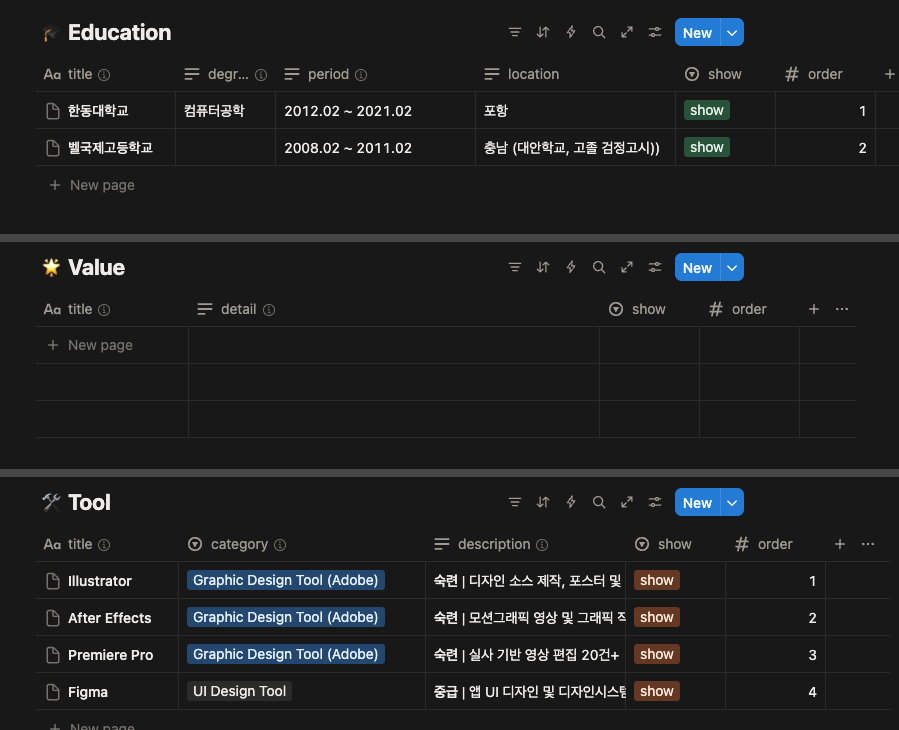
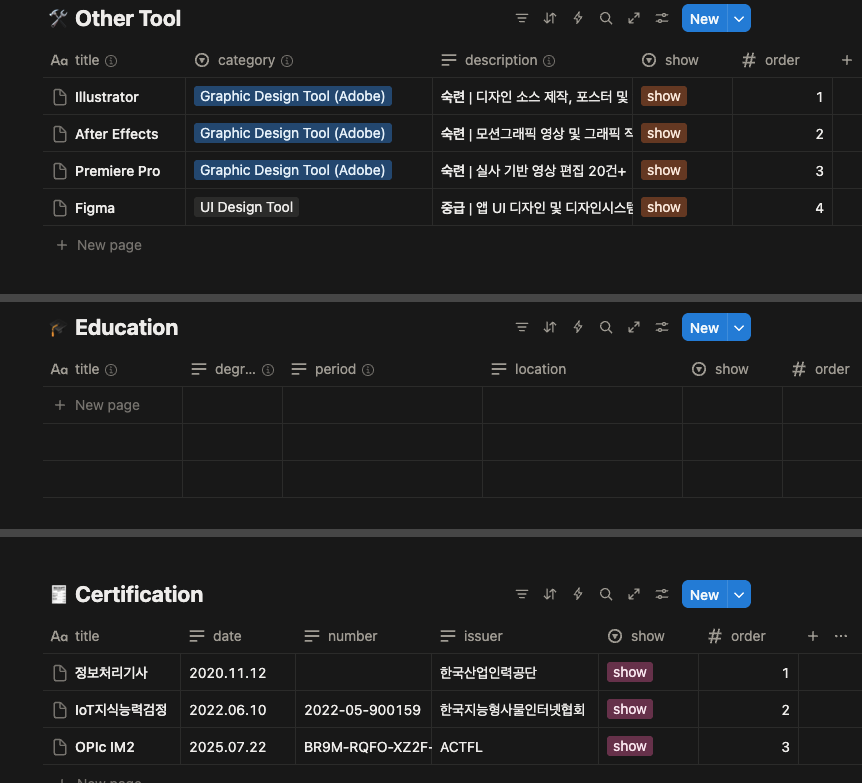
Docs: template_guide.md 업데이트

diff --git a/template_guide/template_guide.md b/template_guide/template_guide.md
@@ -303,11 +303,11 @@ Skill 데이터베이스:
 
 #### 예시: 
 
-데이터베이스: 가치관 DB 내용 X, 고등학교의 'degree' 프로퍼티 없음
+데이터베이스: 학력 DB 내용 X, 정보처리기사 'number' 프로퍼티 없음
 
 ![Screenshot_8](./img/Screenshot_8_empty_data.png)
 
-페이지 결과
+페이지 결과: 학력 섹션 표시 안 됨. 정보처리기사 자격번호 표시하지 않음
 
 ![Screenshot_9](./img/Screenshot_9_empty_data_result.png)
 

diff --git a/README.md b/README.md
@@ -2,6 +2,8 @@
 
 **Embedded & Mobile App Engineer**
 
+이 프로젝트를 템플릿으로 사용하는 방법은 [template_guide/template_guide.md](https://github.com/JaeikLeeDev/jaeiklee-resume/blob/main/template_guide/template_guide.md)를 참고해주세요.
+
 ## 📧 연락처
 
 - **Email**: jaeiklee.pro@gmail.com
